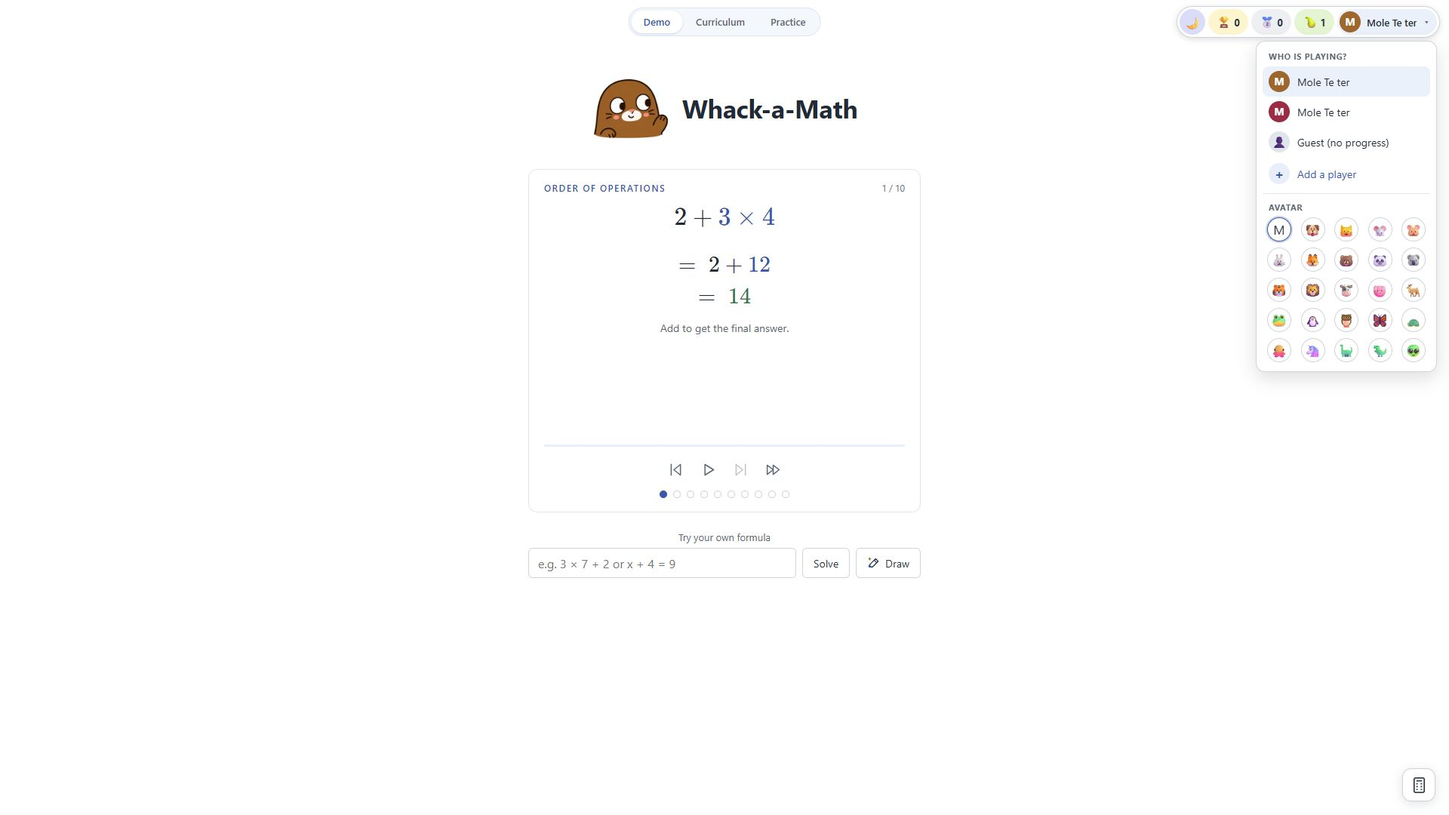
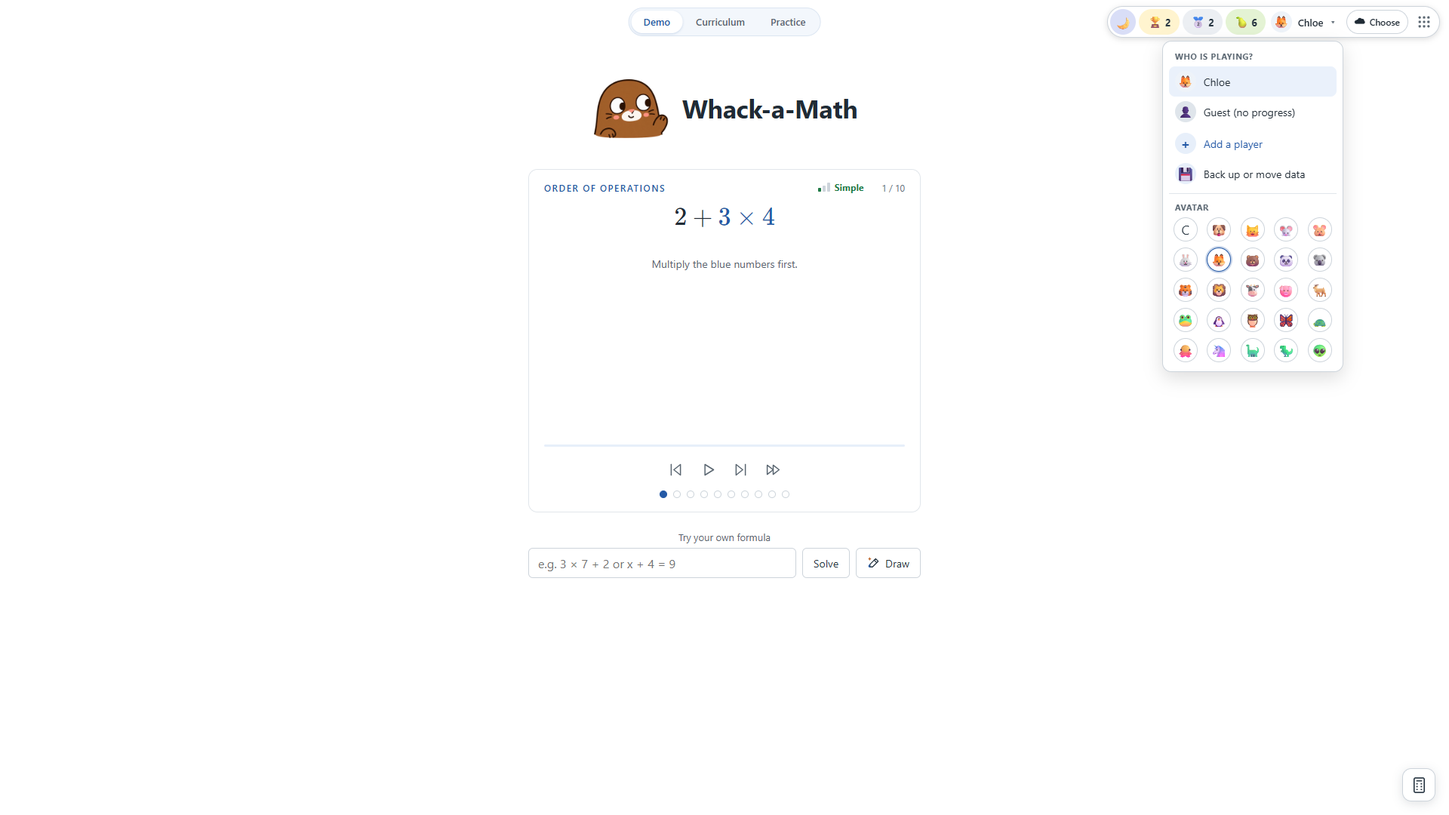
Docs: shared infra cutover, privacy, API; screenshots retaken

diff --git a/docs/shared-infra.md b/docs/shared-infra.md
@@ -1,0 +1,65 @@
+# Math on the shared platform
+
+Math is served from its own subdomain, `https://math.hedgies.cloud`, by the platform's Caddy. The shared login cookie (`sso_access`) only reaches `*.hedgies.cloud`, so GitHub Pages cannot offer accounts. Playing never needs an account: everything works offline and anonymously exactly as before. Signing in is optional and saves each learner's players and finished practice results to the account.
+
+```
+browser ── https://math.hedgies.cloud ──► shared Caddy ──► /srv/www/math/current   (static Vite build, made in CI)
+                                                      └──► /api/*  → math-api:8000  (FastAPI, database `math` on the shared Postgres)
+login:   https://auth.hedgies.cloud  (cookie sso_access on .hedgies.cloud; the API only verifies it, JWKS, RS256, audience `platform`)
+```
+
+## What is stored (privacy)
+
+Per **account** (the token's `sub`, plus first/last seen): learner profiles (random UUID, display name up to 40 characters, avatar emoji) and finished practice results: grade, topic ids, difficulty, number of questions and correct, time spent, started/finished times, and per question the template id with right/wrong and number of tries. **Not stored:** typed answers, the generated numbers, free text, device identifiers, IP addresses or user agents in the app tables. Accounts never see each other's data; every query is scoped to the token's `sub`.
+
+- **Export:** account panel → *Download my account data* (`GET /api/v1/export`, JSON).
+- **Delete one learner:** account panel → *Delete…* removes the profile and all its results from the server (hard delete) and from this device. Only the profile's random id stays as a tombstone so another device cannot silently re-create it.
+- **Delete everything:** *Delete everything saved on my account* (`DELETE /api/v1/me`).
+- Local play stays in the browser (IndexedDB/localStorage) and is untouched by any of this.
+
+## First production cutover (in this order)
+
+1. **DNS (you):** add an A record `math.hedgies.cloud` → the VPS (same address as the other apps).
+2. **Database (infrastructure repo):** `scripts/new-app.sh math` creates the database `math` and its role and prints the connection URL once.
+3. **Server settings:** write `~/math/.env.infra` on the VPS from [`.env.infra.example`](../.env.infra.example): `DOMAIN=hedgies.cloud` and `MATH_DATABASE_URL=postgresql+psycopg://…` (from step 2). Never commit it. Make sure the deploy user can write `/srv/www/math` (`mkdir -p /srv/www/math` and `chown` to that user).
+4. **Deploy once:** merge the `shared-platform` branch to `main`, or run *Test and deploy production* from the Actions tab (it needs the same `HOSTINGER_*` secrets and `production` environment as Rabbit). The workflow tests, builds, publishes `/srv/www/math/releases/<sha>` with the relative `current` symlink (newest 3 kept), uploads only `api/` and `compose.infra.yaml` to `~/math`, checks that `.env.infra` exists, runs `docker compose config --quiet` and `up -d --build --remove-orphans api`. Nothing is public yet: no route exists.
+5. **Route and registry (infrastructure repo):**
+   - copy [`deploy/math.caddy`](../deploy/math.caddy) to `sites/math.caddy`;
+   - add `{"id": "math", "url": "https://math.hedgies.cloud"}` to `switcher/app.json` (the 9-dot launcher hides Math itself by the id `math`);
+   - `docker compose exec proxy caddy reload --config /etc/caddy/Caddyfile`.
+   - Check the login service allows `https://math.hedgies.cloud` as a `return_to` address and as a CORS origin (needed for Google/Microsoft login and for the password form).
+6. **Smoke test:** `https://math.hedgies.cloud/api/v1/health` returns `{"status":"ok"}`; open the site, play a round anonymously, log in, choose what to save, play another round and confirm it shows *Saved to your account*; open the site on a second device and see the players.
+7. **The old GitHub Pages site:** `deploy-pages.yml` is gone, so the last published Pages build stays online unchanged (it keeps working offline-only). The old build has no backup button, so run the manual workflow *Deploy moved notice to GitHub Pages* once: it builds this branch's code with a banner linking to `math.hedgies.cloud`, and that copy has *Back up or move data* (the only way to carry local players across; see below). After a transition period you may switch Pages off in the repository settings.
+8. **Rollback:** the front end: `ln -sfn releases/<older> /srv/www/math/current` on the server. The API: redeploy an earlier commit with the workflow (migrations only add tables, so an older API can run against the same database), or `docker compose -f compose.infra.yaml --env-file .env.infra stop api`: the app keeps working offline without it. To remove Math from the platform, delete `sites/math.caddy` and the registry entry and reload Caddy.
+
+## Moving from the old address
+
+Browser storage belongs to one web address, so players and rounds saved on `chris-kc-cheng.github.io/math` are not visible on `math.hedgies.cloud`. Bring them over with a backup file:
+
+- **Backup file (the only way, since storage is per address):** on the old address open the player menu → *Back up or move data* → *Save a backup file*. On the new address do the same dialog → *Restore from a backup file…*. Then log in: the first-login question *Save this device's players and results?* uploads the restored data to the account (or *Keep them on this device only*).
+
+People who installed the app to the home screen (PWA, or iPhone *Add to Home Screen*) from the old address must remove it and add the new address again: the installed app is bound to its origin and manifest id.
+
+## Sync rules in short
+
+- The device keeps writing to IndexedDB as before. Finished rounds carry the client-generated round UUID as the result id; profiles get a UUID per account.
+- Sync runs when signed in and online (after login, after a round, when coming back online, every few minutes). Pushes are idempotent: the server keeps the **first** write of a result (results are immutable) and answers `duplicate` on repeats; profile name/avatar is **last write wins** by `updated_at`.
+- Existing local data is attached only if the person chooses; declining keeps it off the account, and new rounds are still saved.
+- A learner deleted on one device is removed on the others from the account (their local copy is kept but no longer synced).
+- Status text: *Log in to save results to your account*, *Saving to your account…*, *Saved to your account*, *Will save when you are online*, *Choose what to save to your account*.
+- The API verifies the cookie or `Authorization: Bearer` token itself; cookie-authenticated writes also need `X-Auth-Request: 1` and an allowed `Origin`; writes are rate-limited per account.
+
+## API (`/api/v1`)
+
+| Method and path | Purpose |
+| --- | --- |
+| `GET /health` | liveness (no login) |
+| `GET /me/learners` | the account's profiles with result counts, plus ids of deleted profiles |
+| `PUT /learners/{uuid}` | create or update a profile (409 if the name exists, 410 if deleted) |
+| `DELETE /learners/{uuid}` | hard-delete a profile and all its results |
+| `POST /results` | batch of up to 50 results; per-item status `created`, `duplicate`, `rejected`, `unknown_learner`, `gone` |
+| `GET /learners/{uuid}/results?since=<cursor>` | results after a server cursor (paged) |
+| `GET /export` | everything of the account as JSON |
+| `DELETE /me` | erase all of the account's data |
+
+Development and tests: see [`api/README.md`](../api/README.md).

diff --git a/AGENTS.md b/AGENTS.md
@@ -8,11 +8,11 @@ Motion Canvas LaTeX (https://motion-canvas.io/docs/latex/) is a suggested render
 
 The landing page is an auto-playing card slide show (order of operations, fractions, long division, long multiplication, an equation, clock reading, a labelled Pythagorean triangle, chart reading, and calculator keys) that can be paused to type or draw a formula. `game.html` (Practice) has a Captain Patty waiting room, previous-player picker, editable 1–50-question rounds (default 5), local saving and colour-coded topic progress. Every checked answer shows its explanation; wrong answers become unscored explored examples, with text/icon/colour feedback. The curriculum page can also print an exercise sheet (topics, number of questions, answers on the last page, optional workings) through the browser print dialog. The solver supports two-number addition, subtraction, multiplication and division, plus a three-term addition example with alternative grouping. Decimal inputs use exact rational arithmetic. Do not imply this limited parser supports all LaTeX or general algebra.
 
-Difficulty (Simple, Medium, Hard, or Auto = progressive: simple first, hardest last) is a property of the generated numbers, not of a template: `curriculum/difficulty.js` ranks values (benchmark numbers and small values are simple; 1–2 significant digits medium; the rest hard, relative to the template's `generation` domain, or to 100 for rule-generated templates through the shared `pick` in `math/lesson.js`), `generateQuestionValues(template,rng,level)` samples to a level and falls back to the nearest reachable one, and without a level generation is unchanged. The choice is saved in `localStorage` (`math-difficulty`) and used by Practice rounds (`makeRound(...,difficulty)`, each question stores its `level`), exercise sheets (`buildWorksheet({difficulty})`) and the curriculum page (one selector in its header; Auto toggles simple → medium → hard on each ↻ New question, `cycleLevel`); the demo shows a badge per slide. Do not hard-code difficulty into template JSON. Every generated question must still be valid at every level (see `difficulty.test.js`). Every page mounts a shared top-right corner (`ui/profile-corner.js`) that ends with a 9-dot app launcher (`ui/app-launcher.js`, reads the live list from `https://www.hedgies.cloud/app.json` with entries `{id,url,name?,icon?}`; name and PWA icon come from each app's manifest found from its URL; no apps are hard coded, the current app is hidden by id alone (the package name, injected as `__APP_ID__` in `vite.config.js`); local dev relays remote fetches via `/__fetch` in `vite.config.js`; production needs CORS on the list and manifests); local dev proxies it via `/hedgies-app.json` in `vite.config.js`; production needs the host to allow CORS) and holds a player badge with lifetime statistics (`ui/profile-corner.js`, `game/profile.js#profileStats`: perfect = every question solved, won = at least 80% solved, pear = all correct answers) and uses one grade picker (`grade-picker.js`) as both display and selector; pages react to the `math-profile-change` and `math-rounds-changed` events. The curriculum catalog covers Grades 1–10. Grades 1–3 use shared primary domain rules and visual models, with grade-bounded JSON variants; physical tasks and SEL remain unscored representative coverage. Grades 9–10 (MTH1W and MPM2D) use `src/math/secondary/`: one registry of rules, each with many styles, plus `math/core/tidy.js` (last-line notation cleanup), `math/core/terms.js` (clean algebraic terms) and `math/check-policy.js` (only independent checks are shown). Graphs belong in the worked steps, never beside a question they would answer. Calculator use follows the manufacturer's practice: DEG mode check, multi-tap trig keys, and no calculator for by-hand algebra.
+Difficulty (Simple, Medium, Hard, or Auto = progressive: simple first, hardest last) is a property of the generated numbers, not of a template: `curriculum/difficulty.js` ranks values (benchmark numbers and small values are simple; 1–2 significant digits medium; the rest hard, relative to the template's `generation` domain, or to 100 for rule-generated templates through the shared `pick` in `math/lesson.js`), `generateQuestionValues(template,rng,level)` samples to a level and falls back to the nearest reachable one, and without a level generation is unchanged. The choice is saved in `localStorage` (`math-difficulty`) and used by Practice rounds (`makeRound(...,difficulty)`, each question stores its `level`), exercise sheets (`buildWorksheet({difficulty})`) and the curriculum page (one selector in its header; Auto toggles simple → medium → hard on each ↻ New question, `cycleLevel`); the demo shows a badge per slide. Do not hard-code difficulty into template JSON. Every generated question must still be valid at every level (see `difficulty.test.js`). Every page mounts a shared top-right corner (`ui/profile-corner.js`) that ends with a 9-dot app launcher (`ui/app-launcher.js`, reads the live list from `https://apps.hedgies.cloud/app.json` with entries `{id,url,name?,icon?}`; name and PWA icon come from each app's manifest found from its URL; no apps are hard coded, the current app is hidden by id alone (`math`, injected as `__APP_ID__` in `vite.config.js`); local dev relays remote fetches via `/__fetch` in `vite.config.js`; production needs CORS on the list and manifests); local dev proxies it via `/hedgies-app.json` in `vite.config.js`; production needs the host to allow CORS) and holds a player badge with lifetime statistics (`ui/profile-corner.js`, `game/profile.js#profileStats`: perfect = every question solved, won = at least 80% solved, pear = all correct answers) and uses one grade picker (`grade-picker.js`) as both display and selector; pages react to the `math-profile-change` and `math-rounds-changed` events. The curriculum catalog covers Grades 1–10. Grades 1–3 use shared primary domain rules and visual models, with grade-bounded JSON variants; physical tasks and SEL remain unscored representative coverage. Grades 9–10 (MTH1W and MPM2D) use `src/math/secondary/`: one registry of rules, each with many styles, plus `math/core/tidy.js` (last-line notation cleanup), `math/core/terms.js` (clean algebraic terms) and `math/check-policy.js` (only independent checks are shown). Graphs belong in the worked steps, never beside a question they would answer. Calculator use follows the manufacturer's practice: DEG mode check, multi-tap trig keys, and no calculator for by-hand algebra.
 
 # Development
 
-Use the existing checkout; cloud tasks are already isolated, so do not create worktrees unless requested. Run `npm ci`, `npm run dev`, `npm test`, and `npm run build`. No API keys, LLMs, database, or backend are required.
+Use the existing checkout; cloud tasks are already isolated, so do not create worktrees unless requested. Run `npm ci`, `npm run dev`, `npm test`, and `npm run build`. No API keys, LLMs, database, or backend are required to play or develop the front end. The optional account (`src/sync/`, `src/ui/account.js`) talks to the FastAPI service in `api/` (own tests: `cd api && python -m pytest tests`) and only appears on `*.hedgies.cloud`; anonymous, offline play must never depend on it. Production is the shared platform (`docs/shared-infra.md`, `compose.infra.yaml`, `deploy-production.yml`); the stored result data is deliberately minimal (ids, counts, timestamps, right/wrong; no typed answers or device data) and must stay so.
 
 # Keep docs in sync (all agents)
 

diff --git a/README.md b/README.md
@@ -1,10 +1,10 @@
 # Whack-a-Math
 
-Learn maths through curriculum activities, animated worked solutions, and a five-choice whack-a-mole game. Whack-a-Math covers Ontario Grades 1–10, with local player profiles and saved progress. No LLM, API key, or backend is used. Recognition and solving are separate: a trained model transcribes ink; exact arithmetic rules solve supported formulas.
+Learn maths through curriculum activities, animated worked solutions, and a five-choice whack-a-mole game. Whack-a-Math covers Ontario Grades 1–10, with local player profiles and saved progress. No LLM or API key is used. Recognition and solving are separate: a trained model transcribes ink; exact arithmetic rules solve supported formulas.
 
-[![Try Whack-a-Math live](docs/images/try-live.svg)](https://chris-kc-cheng.github.io/math/)
+[![Try Whack-a-Math live](docs/images/try-live.svg)](https://math.hedgies.cloud)
 
-Live site: [chris-kc-cheng.github.io/math](https://chris-kc-cheng.github.io/math/)
+Live site: [math.hedgies.cloud](https://math.hedgies.cloud)
 
 ## Screenshots
 
@@ -16,7 +16,7 @@ Practice offers **Whack-a-Math**, a full-window five-choice quiz with green gras
 
 <img src="docs/images/curriculum-grade-header.png" alt="Curriculum grade display joined to its dropdown arrow, with grade choices expanded below" width="700">
 
-The player avatar menu offers 25 choices: the name initial and 24 emojis, including animals, two dinosaurs, and an alien.
+The player menu also has *Back up or move data* (save or restore a backup file of this device's players and results). The player avatar menu offers 25 choices: the name initial and 24 emojis, including animals, two dinosaurs, and an alien.
 
 <img src="docs/images/avatar-picker.png" alt="Whack-a-Math player menu with 25 avatars including initials, animals, dinosaurs and an alien" width="700">
 
@@ -28,11 +28,17 @@ Animated worked examples, including extra room for stacked fractions:
 
 <img src="docs/images/landing-long-division.png" alt="Long division demo with the digit-aligned board and Practice navigation" width="560">
 
-## GitHub Pages deployment
+## Optional account (save results online)
 
-In the repository's **Settings → Pages**, choose **GitHub Actions** as the source. The [deployment workflow](.github/workflows/deploy-pages.yml) installs dependencies, runs tests, builds the site, and deploys `dist` after pushes to `main`. It can also be run manually from the **Actions** tab on `main`.
+Playing needs no account and works offline. On `math.hedgies.cloud` a small cloud button next to the player badge opens a login panel (email or username and password, or Google/Microsoft through the shared login at auth.hedgies.cloud). Signed in, each account can own several learner profiles (for example siblings on one iPad); their profiles and every finished practice round are saved to the account and appear on any device after login. The device keeps writing locally first and syncs when online; the status reads *Saved to your account*, *Will save when you are online* or *Log in to save results to your account*. On first login you choose whether this device's existing players and results are attached to the account. Only ids, counts, timestamps and right/wrong per question are stored (no typed answers, no device data); a learner can be deleted with all results and the account's data exported as JSON from the same panel.
 
-The workflow reads the Pages base path from GitHub, so assets and handwriting models work under `/math/` as well as a root or custom-domain deployment. No deployment secret or backend is required.
+<img src="docs/images/account-dialog.png" alt="Account dialog after logging in, asking whether to save this device's players and results to the account" width="700">
+
+The server part lives in [`api/`](api/README.md); production setup and cutover are in [`docs/shared-infra.md`](docs/shared-infra.md). Account features are hidden on other addresses (GitHub Pages, localhost) because the shared cookie only reaches `*.hedgies.cloud`.
+
+## Deployment
+
+Production is the shared platform: [`deploy-production.yml`](.github/workflows/deploy-production.yml) tests, builds the Vite site, publishes it to `/srv/www/math/releases/<sha>` (served by the shared Caddy at math.hedgies.cloud) and starts the API container from [`compose.infra.yaml`](compose.infra.yaml). The old GitHub Pages site is no longer deployed on push; [`deploy-pages-moved.yml`](.github/workflows/deploy-pages-moved.yml) is a manual job that publishes a "we have moved" notice there. Details: [`docs/shared-infra.md`](docs/shared-infra.md).
 
 ## Local development
 

diff --git a/src/README.md b/src/README.md
@@ -13,13 +13,17 @@ src/
     dom.js                       el(), reducedMotion(), renderTex(): the only copies of these helpers
     nav.js, profile-corner.js    Page switcher; player badge, statistics and the add-player menu
     difficulty.js                Difficulty badge and selector (saved choice: Auto, Simple, Medium, Hard)
-    app-launcher.js              9-dot app launcher, last item in the top-right corner; live list from hedgies.cloud/app.json
+    app-launcher.js              9-dot app launcher, last item in the top-right corner; live list from apps.hedgies.cloud/app.json (this app is id `math`)
+    account.js                   Optional account: status button, login/attach/delete/export dialog, device backup, "moved" notice
     grade-picker.js, chrome.css  Grade display with its collapsible selector
     math-text.js, debug.js       Plain a/b → LaTeX fractions; debug log
   views/                         Calculation-board renderers (equation, long division, long multiplication)
   write/                         Handwriting input: ink editing, sample ink, recognition worker
   calculator/                    Key-entry engine, lesson-to-key plans, view, display
   demo/examples.js               Landing examples backed by canonical curriculum templates
+  sync/                          Optional account sync (never required): config (shown only on *.hedgies.cloud), http (timeouts, CSRF header), auth (shared login client),
+                                 api, result (round <-> minimal result), state (per-account links/cursors), engine (offline-first push/pull, pure and tested),
+                                 local (IndexedDB/localStorage adapter), backup (device backup file), index (status, triggers)
   game/                          Practice model (rounds, scoring), IndexedDB storage, profiles, Mole meadow
   curriculum/
     catalog.js                   Grades 1–10 datasets and grade selection
@@ -149,3 +153,7 @@ Brand assets use `public/mole-logo.png`, `public/icons/mole-*.png`, and `public/
 The branding packager draws the meadow and hole behind the fifth mole for favicon, touch and PWA icons; it leaves the transparent landing logo unchanged.
 
 All three main HTML entry pages declare the manifest and Apple touch icon so installation from any route has consistent iPhone branding. `pwa.test.js` checks these entry-page declarations and icon format.
+
+## Account sync
+
+`sync/engine.js` is browser-independent (`api`, `local` and `store` are injected; `engine.test.js` runs it against an in-memory server). A pass: list the account's profiles, adopt a same-named local profile instead of duplicating it, copy new ones locally; if this device has never-attached data stop at status `ask` until the person chooses (`attachAll` / `keepLocalOnly`); push profiles (last write wins by `updatedAt`) and finished rounds in batches of 25 (round id = result id, so repeats are `duplicate`); pull each profile's results after the saved cursor and store them as `remote` rounds (never pushed back). Rounds are only ever added to IndexedDB by `addRounds`; `game/profile.js` keeps a per-profile change time (`math-profile-times`). Per-account state lives in `localStorage` under `math-sync:<account id>`. `api/` holds the FastAPI service (see `api/README.md`).

diff --git a/CLAUDE.md b/CLAUDE.md
@@ -132,3 +132,7 @@ Practice setup follow-up: Grade, Game, Difficulty and Questions are now one row 
 Hammer and difficulty follow-up: the hammer is now inline SVG built in `src/game/toy-hammer.js` (nine soft squeaky ribs that squash lengthwise on impact, no face; `public/game-art/toy-hammer.svg` removed). The curriculum page has one difficulty selector in its header instead of one per card; with Auto each ↻ toggles simple → medium → hard (`cycleLevel`), and changing the selector regenerates the cards (`followDifficulty` option of `mountPractice`, so Practice solution cards never change under the player). Verified squash at 400 ms by pausing the animation, and cycling in the browser.
 
 Hammer placement follow-up: the hammer head now just touches the top of the picked mole's head and stays clear of its face. `placeHammer` in `src/game/toy-hammer.js` puts the head's lowest corner on the forehead point of that sprite (measured from each artwork file, fractions of the picture) and re-places it when the picture loads or the layout resizes. Checked with a real correct answer. In a narrow two-row layout the raised hammer can overlap the mole above, which is unavoidable.
+
+### 2026-11-04 — Claude shared platform (implementation, awaiting review)
+
+Moved Math to `math.hedgies.cloud` on the shared platform and added an optional account: `api/` (FastAPI, Alembic, verifies the shared `sso_access` cookie/Bearer RS256 token; tables accounts, learner_profiles, deleted_learners, practice_results, result_items), `src/sync/` (offline-first push/pull, per-account state, device backup file), `src/ui/account.js` (cloud status button, login/attach/delete/export dialog), `compose.infra.yaml`, `deploy/math.caddy`, `deploy-production.yml` (replaces the push-triggered Pages deploy; `deploy-pages-moved.yml` is manual with a moved notice), `docs/shared-infra.md` (cutover and privacy). Launcher now reads apps.hedgies.cloud and this app's registry id is `math`. Verified in a browser against a stub login service and the real API (login, attach offer, push, list, delete cascade). Not verified: real auth.hedgies.cloud CORS/return_to, the Caddy route (no image pull possible offline), the deploy workflow on a real server. Screenshots `account-dialog.png` and `avatar-picker.png` retaken (light, 1920 × 1080, with VITE_FORCE_SYNC so the cloud button shows). Reviewer notes: result time is wall-clock from first to last answer (includes pauses on resumed rounds); per-question time is not tracked (`time_ms` null); `assisted` is stored as not correct.

diff --git a/api/README.md b/api/README.md
@@ -1,0 +1,21 @@
+# Whack-a-Math API
+
+FastAPI + SQLAlchemy + Alembic service that stores learner profiles and finished practice results for a signed-in shared account. The app works without it. Design, data model and cutover: [`docs/shared-infra.md`](../docs/shared-infra.md).
+
+```
+app/main.py      routes, CSRF/rate-limit/auth dependency, body limit
+app/sso_auth.py  verifies the sso_access cookie or Bearer token (RS256 pinned, JWKS, audience platform)
+app/schemas.py   bounded request validation        app/models.py  tables        migrations/  Alembic
+tests/           pytest (SQLite): auth, IDOR, idempotency, validation, rate limit, cascade, export, migrations
+```
+
+```sh
+python -m venv .venv && . .venv/bin/activate        # Windows: .venv\Scripts\activate
+pip install -r requirements-dev.txt
+python -m pytest tests -q
+# run locally (SQLite file; SSO_JWKS_URL must point at a JWKS that signs the tokens you test with)
+MATH_ALLOWED_ORIGINS=http://127.0.0.1:5173 SSO_DOMAIN=example.test SSO_JWKS_URL=http://127.0.0.1:9100/.well-known/jwks.json \
+  alembic upgrade head && uvicorn app.main:create_app --factory --port 8000
+```
+
+Environment: `MATH_DATABASE_URL`, `SSO_DOMAIN` (default `hedgies.cloud`), `SSO_JWKS_URL` (optional), `MATH_ALLOWED_ORIGINS`, `MATH_ENV=production`. The front end proxies `/api` to `127.0.0.1:8000` in `npm run dev`; account features only show on `*.hedgies.cloud` unless `VITE_FORCE_SYNC=1` (with `VITE_AUTH_BASE` for a stub login service).
